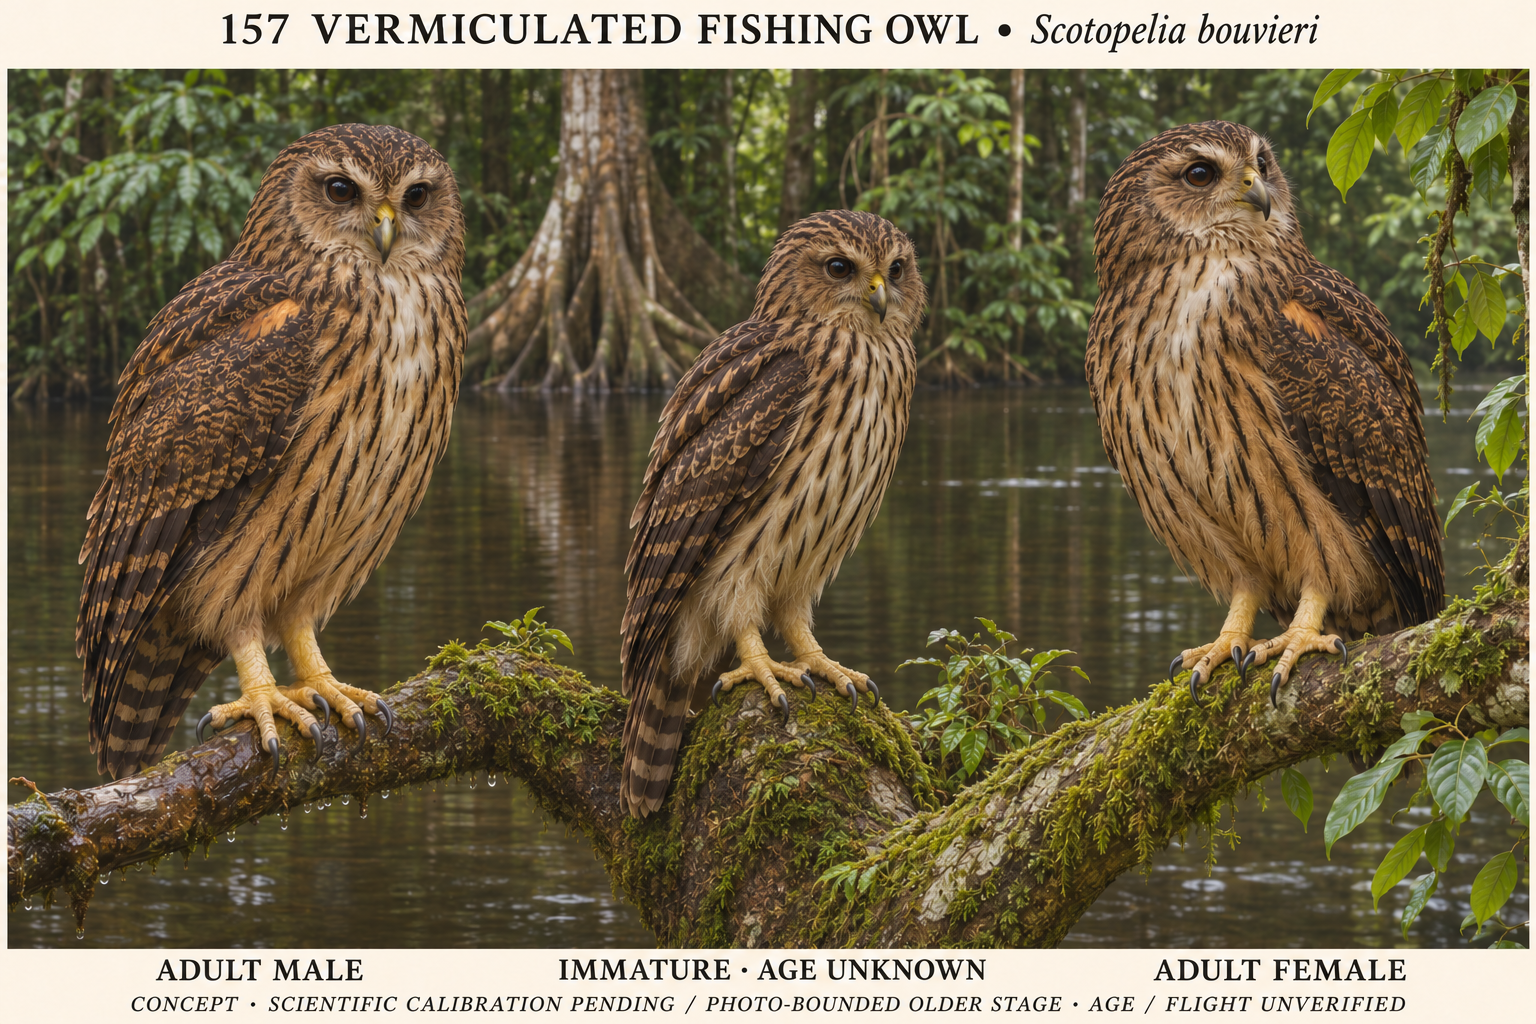
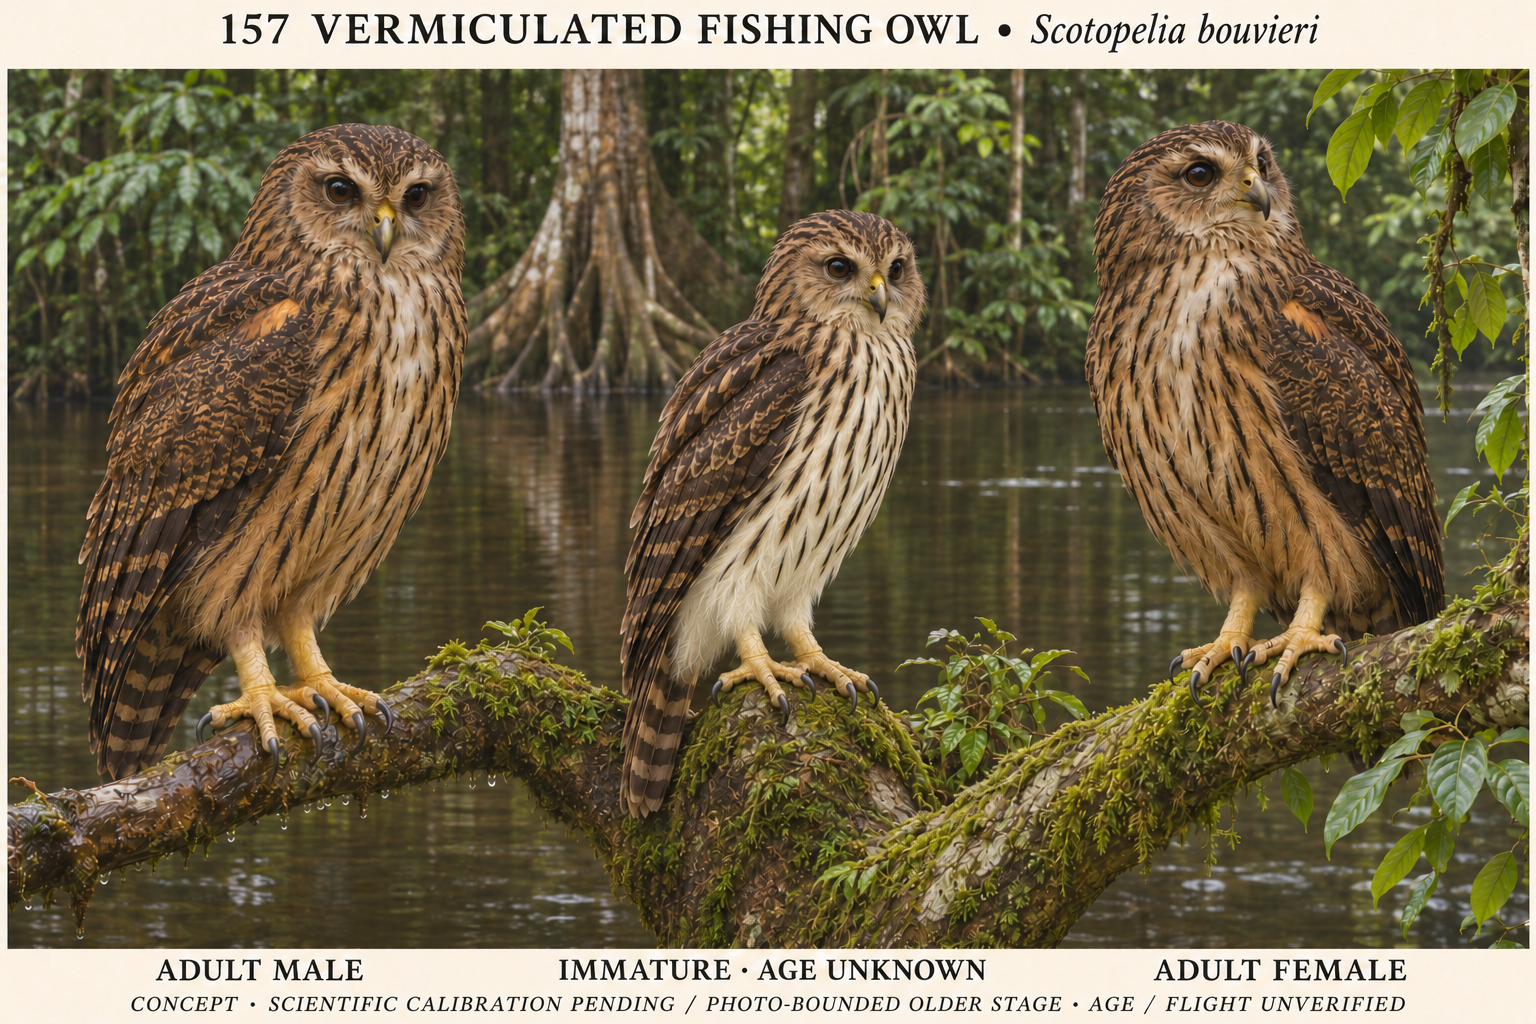
owl-pet: persist generated 157-scotopelia-bouvieri-v5

diff --git a/owl-pet/production/runs/20261124T0831Z-cycle3.md b/owl-pet/production/runs/20261124T0831Z-cycle3.md
@@ -4,3 +4,8 @@ STARTED 2026-11-24T08:40:31.563Z: freshmainledgerverified priorcycle, no otherac
 RESEARCH_READY 2026-11-24T08:42:08.350Z: 157-scotopelia-bouvieri-v5; sourcecounts{"new":0,"reused":3,"corrected":1}.
 
[1 lines of base64/hex data omitted]
+
+EDIT 2026-11-24T08:44:05.270Z → 2026-11-24T08:44:55.603Z: initialyoungventrumtoo warmtan comparedactualphoto. Targetedlightenventralbackgroundandpreservedarkshafts; initialretained production/artifacts/20261124T0831Z/157-initial.png commit6fecbfb37c352fb86d2fb86c034d81dacc1ded25. Fullprompt saved below.
+Edit ONLY CENTRE IMMATURE colour regions in this existing plate. Its chest/belly/upperthigh background must be noticeably OFF-WHITE/IVORY, with the existing strong long dark vertical shaft streaks retained on chest/belly but thighs plain pale. The actual identified immature photograph has a much whiter ventrum than the warm tan adults; the first render incorrectly made allthree equallytan. Keep centrebrownstreakedhead, formedfoldedwing, longishtail, staticfootgrip, samebody/pose/branch and alladultbirds/text/forest unchanged. Do noteraseformedwingfeathers orcreateanatalchick. Nootheredits, noextrabirds/limbs/text. Precisely lighten only immatureventralgroundcolour, slightpalerface, naturaltexture. Remain same established style1536x1024.
+
[1 lines of base64/hex data omitted]
